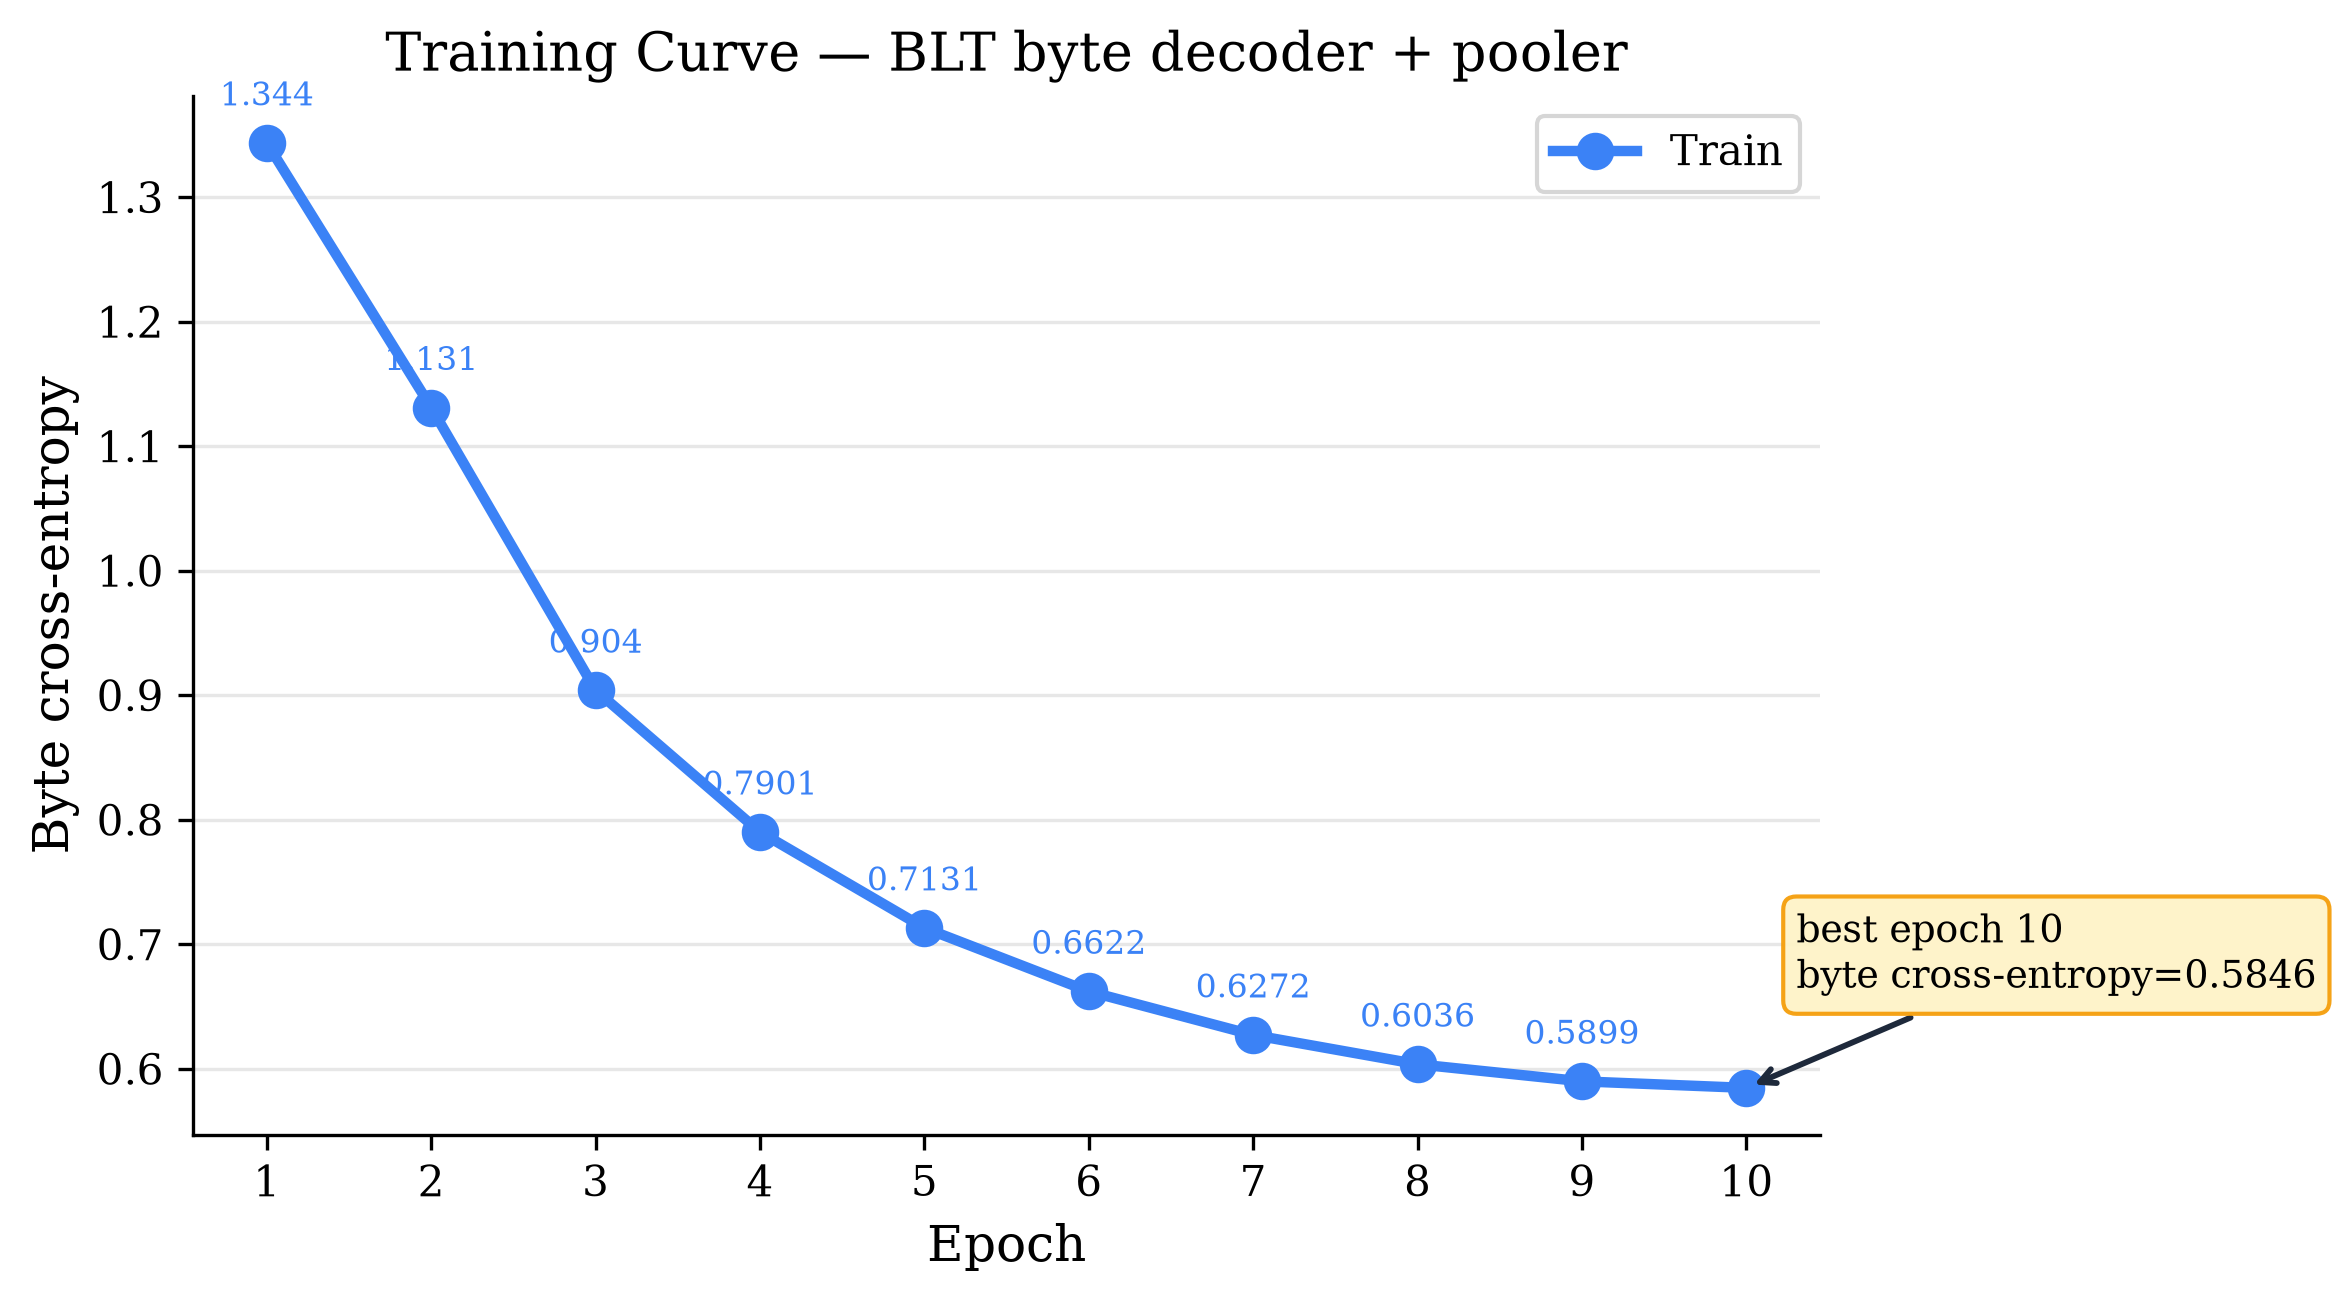
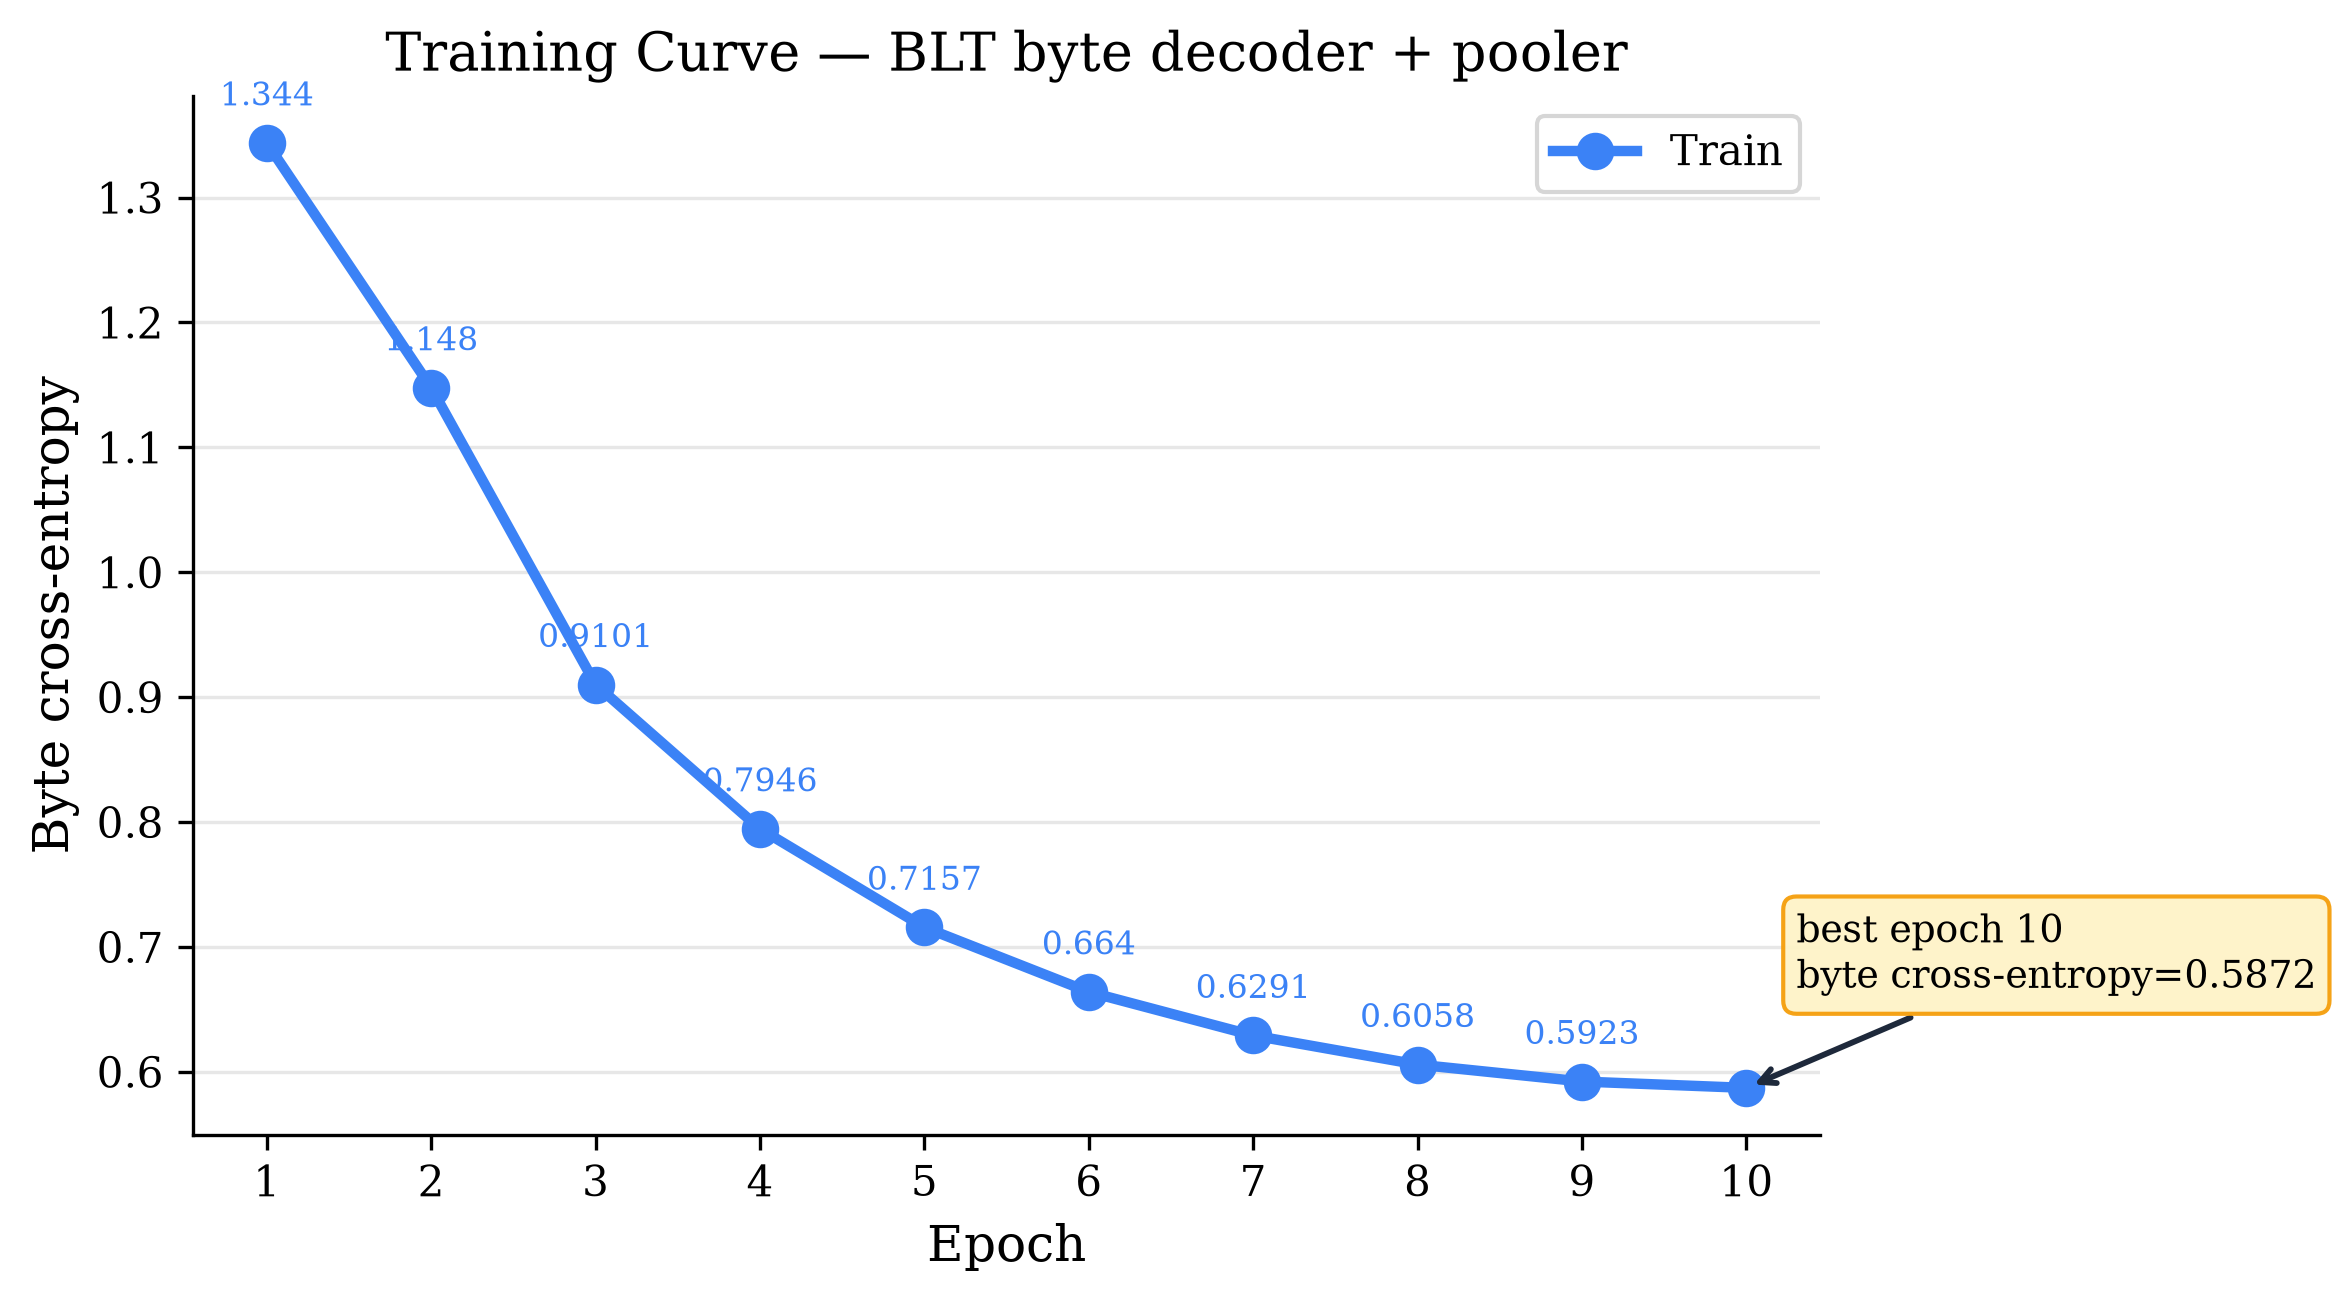
results: blt_decoder (blt_decoder.py)
best_byte_cross_entropy: 0.5871505494020424
best_epoch: 10
epochs_run: 10
byte_perplexity: 1.798855356201291

diff --git a/results/runs/blt_decoder/README.md b/results/runs/blt_decoder/README.md
@@ -1,19 +1,19 @@
 # blt_decoder
 
 * script: `blt_decoder.py`
-* finished: 2026-08-17T18:52:54Z
-* wall clock: 904.8 s
-* code: `aa5c879` on `main` (working tree dirty)
+* finished: 2026-08-18T06:58:14Z
+* wall clock: 900.0 s
+* code: `e200dba` on `main` (working tree dirty)
 * device: NVIDIA RTX PRO 6000 Blackwell Server Edition
 
 ## Results
 
 | metric | value |
 | --- | --- |
-| best_byte_cross_entropy | 0.5846442002422956 |
+| best_byte_cross_entropy | 0.5871505494020424 |
 | best_epoch | 10 |
 | epochs_run | 10 |
-| byte_perplexity | 1.7943524418857206 |
+| byte_perplexity | 1.798855356201291 |
 
 ## Run info
 
@@ -29,7 +29,7 @@
 | min_delta | 0.0 |
 | min_epochs | 1 |
 | epochs_observed | 10 |
-| best | 0.5846442002422956 |
+| best | 0.5871505494020424 |
 | best_epoch | 10 |
 | epochs_since_improvement | 0 |
 | stop_reason | reached the --epochs cap of 10 |
